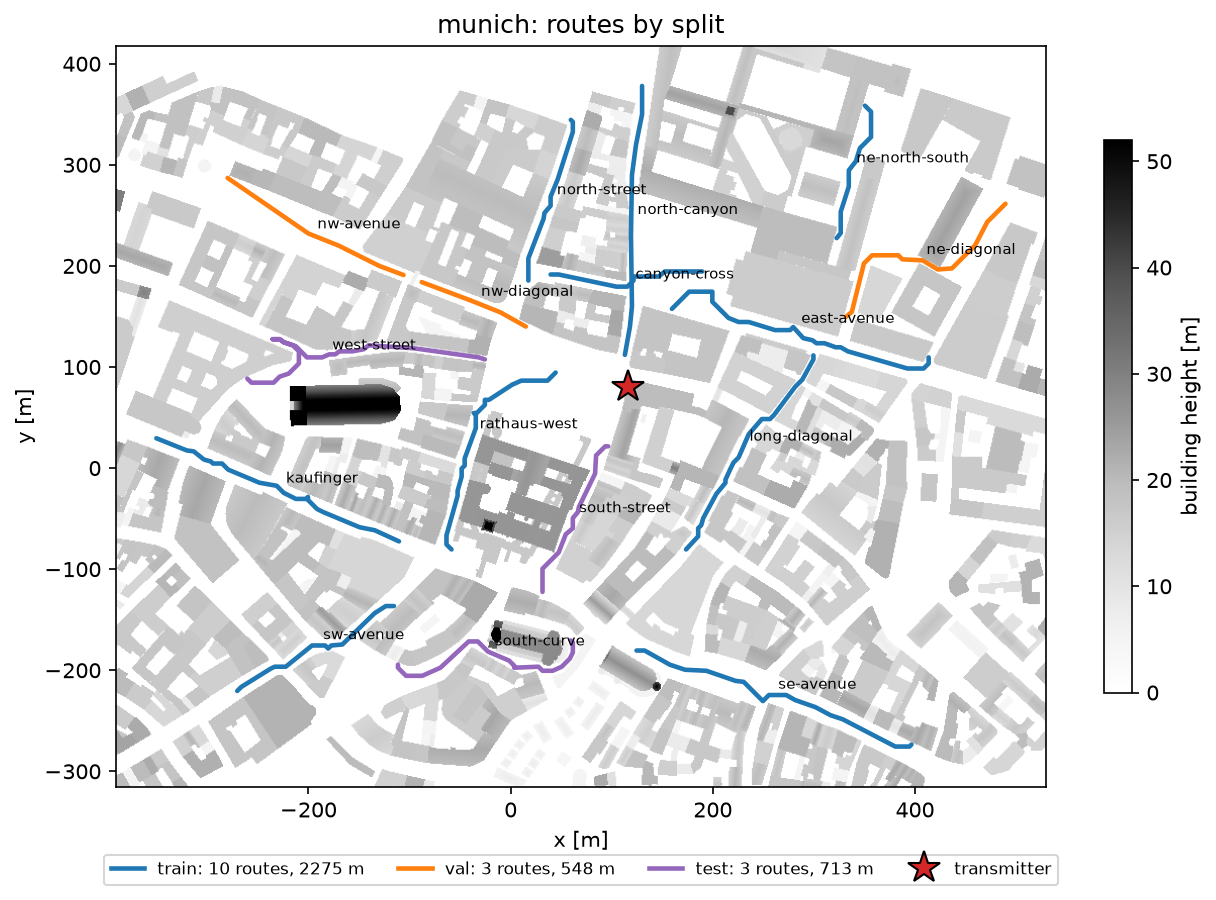
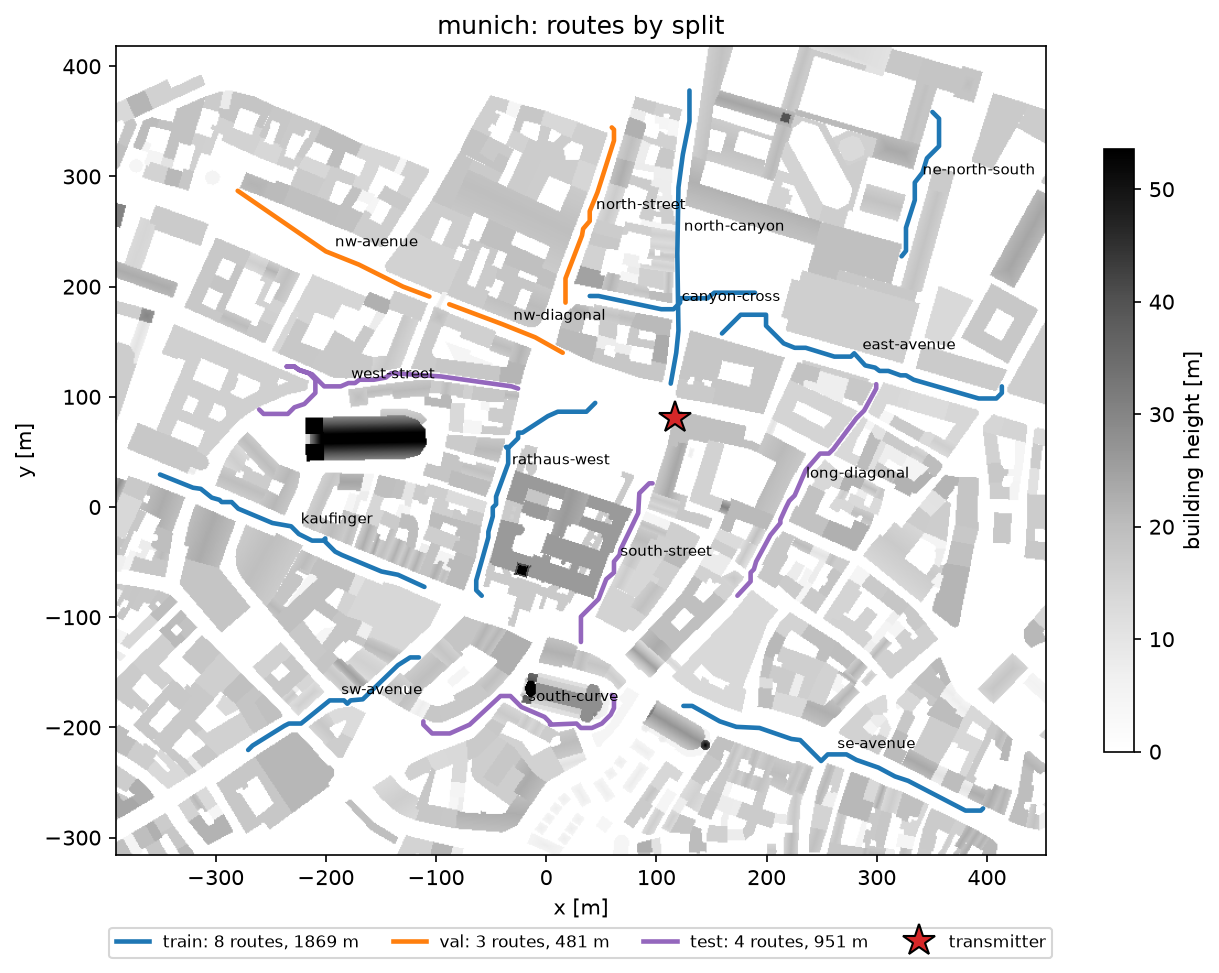
fix: rebalance Munich splits so every split has NLoS data

diff --git a/tests/test_rt_config.py b/tests/test_rt_config.py
@@ -62,11 +62,11 @@ def test_munich_config():
     assert config.min_mean_gain_db == -150.0
     assert config.attribution_text == rt_config.OSM_ATTRIBUTION
     splits = [r.split for r in config.routes]
-    assert len(config.routes) == 16
-    assert (splits.count("train"), splits.count("val"), splits.count("test")) == (10, 3, 3)
-    assert len({r.group for r in config.routes}) == 16
+    assert len(config.routes) == 15
+    assert (splits.count("train"), splits.count("val"), splits.count("test")) == (8, 3, 4)
+    assert len({r.group for r in config.routes}) == 15
     total = sum(r.length for r in config.routes)
-    assert 3500 < total < 4000
+    assert 3250 < total < 3350
     # Split by street: no route within 10 m of a route of another split
     assert max(split_overlap(config).values()) == 0.0
 

diff --git a/docs/channels.md b/docs/channels.md
@@ -322,22 +322,25 @@ line to the antenna. This site covers about 26 % and sees a long north-south str
 the square and two streets leading into it, with NLoS streets all around. An antenna set
 back from the roof edge sees much less: the street below is hidden by the roof edge.
 
-**Routes.** 16 streets, 3536 m in total, split by street: no street is in two splits, and
+**Routes.** 15 streets, 3301 m in total, split by street: no street is in two splits, and
 no route comes within 10 m of a route of another split (checked by `linkgym-traces
-check`). As configured, each split has a line-of-sight, an NLoS and a transition route;
-after dropping trajectories without coverage (below), val has no NLoS route left. The
-routes follow the street centres, at least 1.6 m from any surface. In this scene a building
-closes the avenue north-west of the square near x = -95 m; its two halves are two routes,
-both in val.
+check`). Every split has kept trajectories of all three route categories, and val and test
+each have a fully covered NLoS street (`north-street` and `long-diagonal`), so that model
+selection and stratified test results see NLoS data. The routes follow the street centres,
+at least 1.6 m from any surface. In this scene a building closes the avenue north-west of
+the square near x = -95 m; its two halves are two routes, both in val.
 
-| split | routes | length | trajectories configured | kept | LoS share of kept | route categories (with kept trajectories) |
-|---|---:|---:|---:|---:|---:|---|
-| train | 10 | 2275 m | 70 | 51 | 0.22 | 1 los, 2 transition, 7 nlos |
-| val | 3 | 548 m | 16 | 9 | 0.50 | 1 los, 1 transition |
-| test | 3 | 713 m | 22 | 16 | 0.41 | 1 los, 1 transition, 1 nlos |
+| split | routes | length | trajectories configured | kept | kept los / transition / nlos | LoS share of kept |
+|---|---:|---:|---:|---:|---|---:|
+| train | 8 | 1869 m | 58 | 39 | 8 / 13 / 18 | 0.29 |
+| val | 3 | 481 m | 14 | 14 | 3 / 6 / 5 | 0.32 |
+| test | 4 | 951 m | 29 | 23 | 5 / 10 / 8 | 0.29 |
 
 The LoS share is the share of path solves with a line-of-sight path. Route categories are
-derived from each route's LoS share (`nlos` up to 0.05, `los` from 0.75).
+derived from each route's LoS share (`nlos` up to 0.05, `los` from 0.75). A first version
+of the split had an NLoS street in val whose trajectories were all dropped (no coverage)
+and a single kept NLoS trajectory in test; that street was removed, and two well-covered
+NLoS streets moved from train to val and test.
 
 **Receiver.** 1.5 m above ground, isotropic, vertically polarized, like the transmitter.
 It moves at 15 m/s, the default speed of `LinkAdaptation-v0`, chosen for comparability
@@ -355,7 +358,7 @@ Open Database License (ODbL). The attribution is stored in every trace file.
 -150 dB (`min_mean_gain_db`) are dropped.
 
 **Generating it.** The dataset is not distributed; generate it in an environment with the
-`rt` extra (an RTX 3060 took 78 min, 99-124 ms per path solve; 67 MB for 76 trajectories):
+`rt` extra (an RTX 3060 took 74 min, 101-119 ms per path solve; 67 MB for 76 trajectories):
 
 ```bash
 linkgym-traces generate examples/rt/munich.json -o data/munich-v1.h5
@@ -363,7 +366,7 @@ linkgym-traces generate examples/rt/munich.json -o data/munich-v1-test-alt.h5 --
 ```
 
 The second command writes the alternative test realization (see the limitations below;
-20 min, 14 MB for 16 trajectories).
+27 min, 20 MB for 23 trajectories).
 [tests/data/munich_sample.h5](../tests/data/munich_sample.h5) (0.9 MB) holds the first
 1000 slots of one trajectory each of `north-canyon` (train, los), `east-avenue` (train,
 nlos), `nw-avenue` (val, transition) and `west-street` (test, transition), made with
@@ -379,13 +382,12 @@ nlos), `nw-avenue` (val, transition) and `west-street` (test, transition), made 
 | canyon-cross | train | transition | 5 (0) | 0.12 | -88.3 dB |
 | ne-north-south | train | nlos | 3 (1) | 0.00 | -145.4 dB |
 | sw-avenue | train | nlos | 2 (4) | 0.00 | -121.8 dB |
-| north-street | train | nlos | 5 (0) | 0.00 | -111.0 dB |
-| long-diagonal | train | nlos | 7 (0) | 0.00 | -108.1 dB |
+| north-street | val | nlos | 5 (0) | 0.00 | -111.0 dB |
+| long-diagonal | test | nlos | 7 (0) | 0.00 | -108.1 dB |
 | kaufinger | train | nlos | 1 (7) | 0.00 | -130.4 dB |
 | rathaus-west | train | transition | 8 (0) | 0.41 | -86.6 dB |
 | nw-avenue | val | transition | 6 (0) | 0.25 | -93.6 dB |
 | nw-diagonal | val | los | 3 (0) | 1.00 | -85.9 dB |
-| ne-diagonal | val | - | 0 (7) | - | - |
 | west-street | test | transition | 10 (0) | 0.21 | -90.0 dB |
 | south-street | test | los | 5 (0) | 0.90 | -82.3 dB |
 | south-curve | test | nlos | 1 (6) | 0.00 | -126.7 dB |
@@ -453,11 +455,12 @@ deterministic ray-tracing realization of the scene.
 
 **Alternative test realization.** `munich-v1-test-alt.h5` holds the test split generated
 again with 8 million rays and the 1e6 path buffer, all else equal. It keeps and drops the
-same trajectories. Between the two realizations, the mean gain of the 16 test trajectories
-differs by 0.10 dB in the median (1.1 dB at most), the frequency and time correlations by
-0.01 in the median (0.25 at most), and the normalized EESM effective SINR per slot by
-2.4 dB at the 95th percentile of a typical trajectory (42 dB for the one deep NLoS
-trajectory, in its deep fades). Evaluating trained agents on both test realizations shows
+same trajectories. Between the two realizations, the mean gain of the 23 test trajectories
+differs by 0.12 dB in the median (6.1 dB at most, on the NLoS street `long-diagonal`), the
+frequency and time correlations by 0.02 in the median (0.57 at most, also on
+`long-diagonal`), and the normalized EESM effective SINR per slot by 2.6 dB at the 95th
+percentile of a typical trajectory (42 dB for the one kept `south-curve` trajectory, in its
+deep fades). NLoS streets depend most on the ray budget. Evaluating trained agents on both test realizations shows
 whether conclusions survive the non-convergence.
 
 **Anchor spacing.** Between path solves, the channel evolves by Doppler with the paths of
@@ -478,14 +481,14 @@ The largest errors are a few slots around abrupt changes of the path set, which 
 spacing removes; elsewhere the anchored channel follows the per-slot one closely. (On a
 line-of-sight route without diffraction, the NMSE at 10 slots was -39.5 dB.)
 
-**Dropped trajectories.** 32 of the 108 trajectories were dropped, all on NLoS routes far
-from the base station: 21 because a slot had no path at all (`se-avenue` 7 of 10,
-`south-curve` 6 of 7, `sw-avenue` 4 of 6, `ne-diagonal` 3 of 7, `ne-north-south` 1 of 4)
-and 11 because their mean gain was below -150 dB (`kaufinger` 7 of 8, `ne-diagonal` 4 of 7;
-between -153 and -206 dB). The val NLoS route `ne-diagonal` lost all its trajectories, so
-val has a line-of-sight and a transition route only, and the NLoS parts of train (51 of 70
-trajectories kept) and test (16 of 22) are thinner than configured. The reason and mean
-gain of every dropped trajectory are stored in the `routes` attribute.
+**Dropped trajectories.** 25 of the 101 configured trajectories are dropped, all on NLoS
+routes far from the base station: 18 because a slot had no path at all (`se-avenue` 7 of
+10, `south-curve` 6 of 7, `sw-avenue` 4 of 6, `ne-north-south` 1 of 4) and 7 because their
+mean gain was below -150 dB (`kaufinger` 7 of 8, between -155 and -206 dB). Train keeps 39
+of 58 trajectories, val all 14 and test 23 of 29. A sixteenth street, north-east of the
+base station, lost all 7 of its trajectories (3 without paths, 4 below -150 dB) and was
+removed from the configuration. The reason and mean gain of every dropped trajectory are
+stored in the `routes` attribute.
 
 **Coverage.** With refraction off, parts of the far NLoS streets have almost no signal;
 they are kept unless a trajectory's mean gain is below -150 dB (an SNR of about -26 dB at

diff --git a/CHANGELOG.md b/CHANGELOG.md
@@ -39,7 +39,8 @@ and this project adheres to [Semantic Versioning](https://semver.org/spec/v2.0.0
   attributes, and `--routes`, `--splits` and `--solver KEY=VALUE` selections and overrides.
   Optional extra `rt` (`sionna-rt==2.1.0`), to be installed in its own environment.
 - Munich dataset configuration (`examples/rt/munich.json`): one rooftop base station and
-  16 streets split by street into train, val and test, refraction off; the route figure
+  15 streets split by street into train, val and test (each with line-of-sight, NLoS and
+  transition data), refraction off; the route figure
   `docs/assets/munich_routes.png`, a small sample trace in `tests/data/`, and
   `examples/rt/make_sample.py` and `examples/rt/dataset_stats.py`. The dataset itself is
   generated locally; `docs/channels.md` documents its statistics and known limitations
